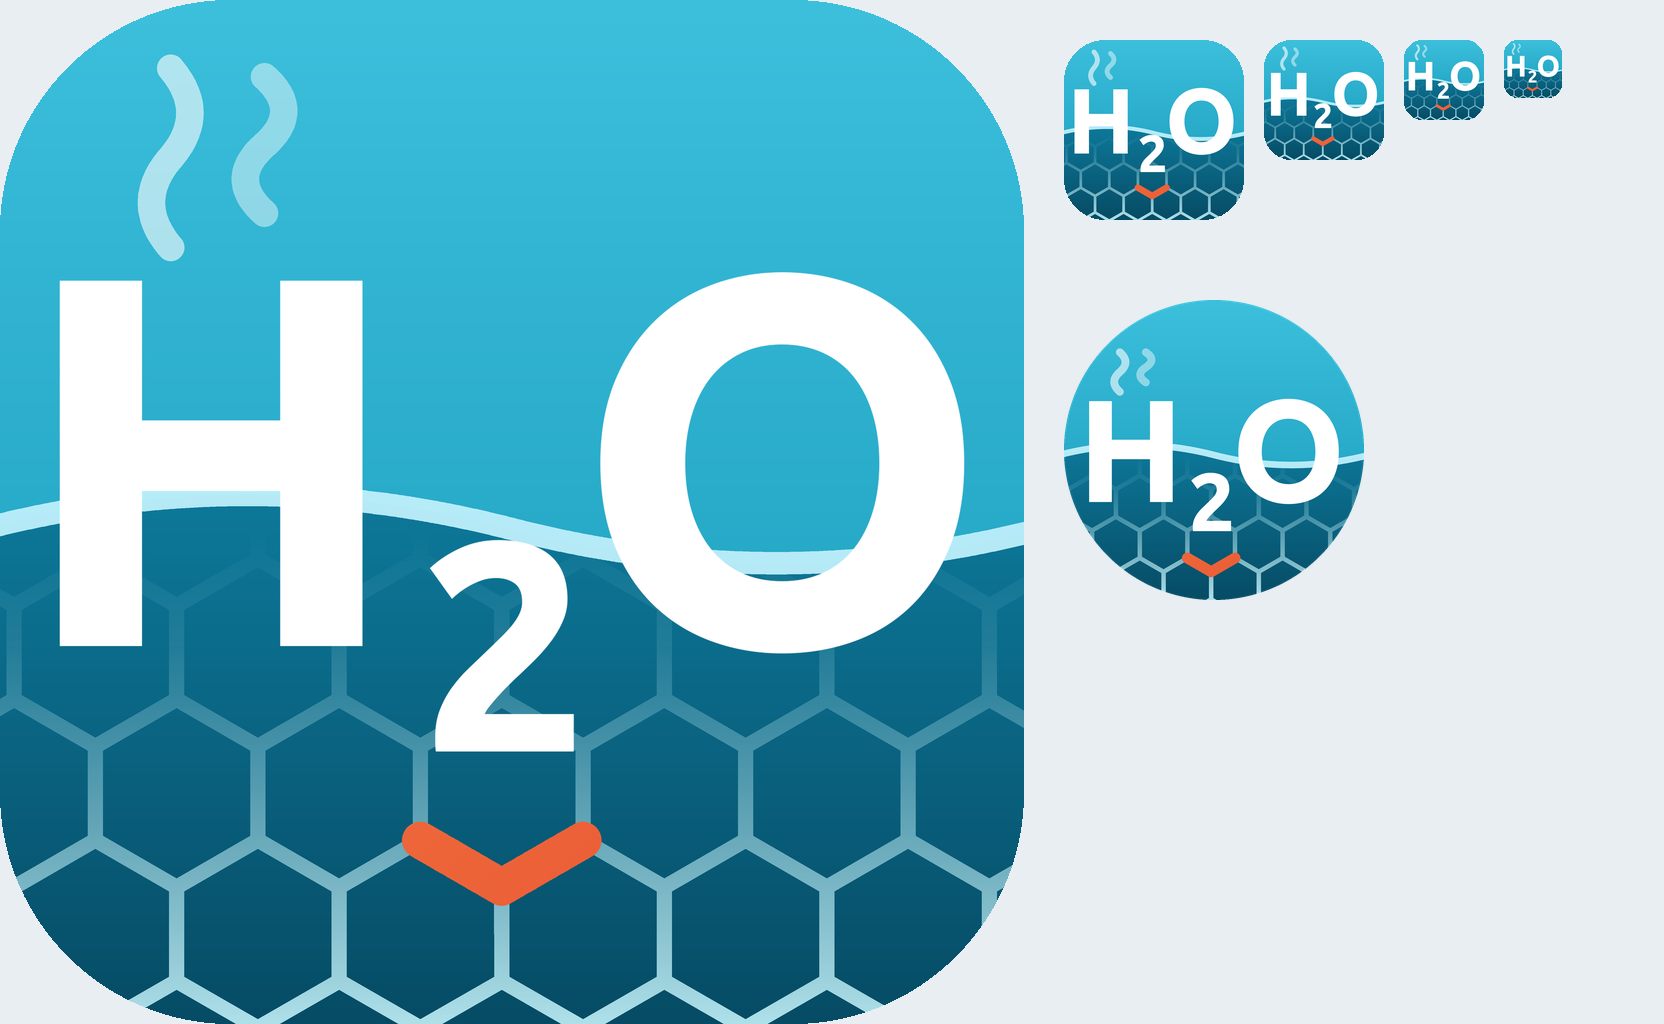
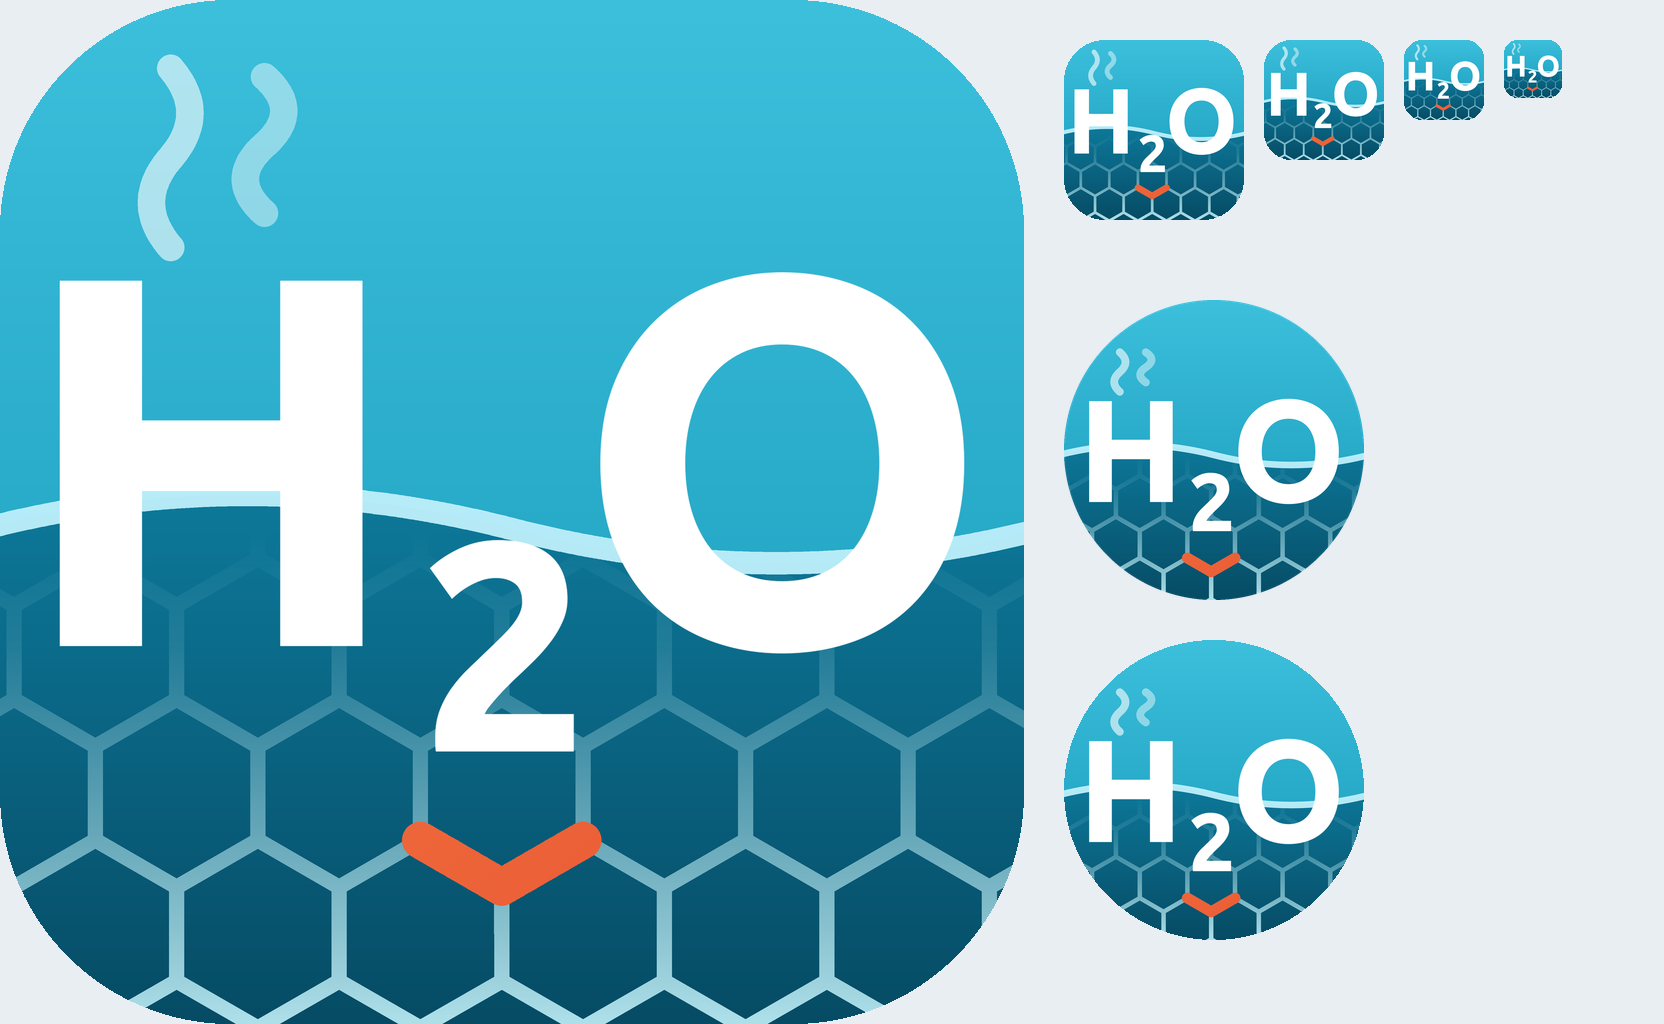
Android adaptief icoon: gebouwd uit het ronde ontwerp (zichtbaar middendeel), stoom boven de H, V onder de 2

Changed region(s): [[0.625, 0.625, 0.8438, 0.9375]]

diff --git a/Tools/Icoon/maak_icoon.py b/Tools/Icoon/maak_icoon.py
@@ -4,8 +4,10 @@ oranje V onder de 2 toegevoegd 11 nov 2026, zie Docs/Mockups/icoon_hex_keuze.png
 Gebruik:  python3 Tools/Icoon/maak_icoon.py
 Uitvoer:
   Assets/Icoon/icoon_1024.png          vierkant, zonder doorzichtigheid (iOS, App Store, standaard)
-  Assets/Icoon/android_achtergrond.png Android adaptief icoon: achtergrondlaag (1024)
-  Assets/Icoon/android_voorgrond.png   Android adaptief icoon: H2O, kleiner, binnen de veilige zone (1024)
+  Assets/Icoon/android_rond.png        Android rond icoon (oudere toestellen): eigen ontwerp, H2O zo groot mogelijk
+  Assets/Icoon/android_achtergrond.png Android adaptief icoon: achtergrondlaag; het ronde ontwerp in het zichtbare
+                                       middendeel (72 van 108 dp), de rand aangevuld (alleen te zien bij parallax)
+  Assets/Icoon/android_voorgrond.png   Android adaptief icoon: H2O van het ronde ontwerp, op dezelfde plek
   Docs/Icoon/icoon_store_512.png       Play Store (512, vierkant)
   Docs/Icoon/voorbeeld.png             voorbeeld met afgeronde hoeken en kleine maten
 
@@ -319,7 +321,27 @@ def rond_icoon():
     ImageDraw.Draw(m).ellipse([0, 0, MAAT - 1, MAAT - 1], fill=255)
     rond.putalpha(m)
     print(f"rond icoon: H2O {breedte:.0f} van 120 breed, midden op {midden_y}")
-    return rond
+    return rond, klein(bg), klein(letters)
+
+
+ZICHTBAAR = 72 / 108          # adaptief icoon: de launcher toont het middelste 72 van de 108 dp
+
+
+def adaptief(bg_rond, letters_rond):
+    """Android adaptief: het ronde ontwerp precies in het zichtbare middendeel. De rand eromheen (alleen te zien bij
+    parallax) wordt aangevuld met de randpixels van de achtergrond."""
+    z = round(MAAT * ZICHTBAAR); o = (MAAT - z) // 2
+    bgk = bg_rond.convert("RGB").resize((z, z), Image.LANCZOS)
+    achter = Image.new("RGB", (MAAT, MAAT))
+    achter.paste(bgk.crop((0, 0, z, 1)).resize((z, o)), (o, 0))                     # boven: lucht doortrekken
+    achter.paste(bgk.crop((0, z - 1, z, z)).resize((z, MAAT - o - z)), (o, o + z))  # onder
+    achter.paste(bgk, (o, o))
+    kolom_l = achter.crop((o, 0, o + 1, MAAT)).resize((o, MAAT))
+    kolom_r = achter.crop((o + z - 1, 0, o + z, MAAT)).resize((MAAT - o - z, MAAT))
+    achter.paste(kolom_l, (0, 0)); achter.paste(kolom_r, (o + z, 0))
+    voor = Image.new("RGBA", (MAAT, MAAT), (0, 0, 0, 0))
+    voor.alpha_composite(letters_rond.resize((z, z), Image.LANCZOS), (o, o))
+    return achter, voor
 
 
 def main():
@@ -332,15 +354,13 @@ def main():
     icoon.save(os.path.join(UIT_ASSETS, "icoon_1024.png"))
     icoon.resize((512, 512), Image.LANCZOS).save(os.path.join(UIT_DOCS, "icoon_store_512.png"))
 
-    # Android adaptief: 108 dp laag, veilige zone 66 dp in het midden → H2O op ~58 % van de breedte.
-    # De letters staan daar kleiner, dus de zeshoek met de oranje V komt op een eigen plek onder die 2.
-    letters_a = h2o(120 * 0.58)
-    bg_a = achtergrond(twee=twee_plek(letters_a), schaal=120 * 0.58 / (120 - 2 * MARGE))
-    klein(bg_a).convert("RGB").save(os.path.join(UIT_ASSETS, "android_achtergrond.png"))
-    klein(letters_a).save(os.path.join(UIT_ASSETS, "android_voorgrond.png"))
     # Android rond icoon (oudere toestellen): een eigen ontwerp, zo groot mogelijk binnen de cirkel
-    rond1024 = rond_icoon()
+    rond1024, bg_rond, letters_rond = rond_icoon()
     rond1024.save(os.path.join(UIT_ASSETS, "android_rond.png"))
+    # Android adaptief (Android 8+): hetzelfde ronde ontwerp in het zichtbare middendeel van de twee lagen
+    achter_a, voor_a = adaptief(bg_rond, letters_rond)
+    achter_a.save(os.path.join(UIT_ASSETS, "android_achtergrond.png"))
+    voor_a.save(os.path.join(UIT_ASSETS, "android_voorgrond.png"))
 
     # voorbeeld: afgerond groot + kleine maten, en de Android-cirkel
     vb = Image.new("RGBA", (1024 + 40 + 600, 1024), (233, 238, 242, 255))
@@ -350,6 +370,13 @@ def main():
         vb.alpha_composite(afgerond(icoon.convert("RGBA").resize((m, m), Image.LANCZOS)), (x, 40))
         x += m + 20
     vb.alpha_composite(rond1024.resize((300, 300), Image.LANCZOS), (1064, 300))
+    # adaptief icoon zoals een launcher het toont: het middelste 72 van 108 dp, als cirkel
+    zicht = round(MAAT * ZICHTBAAR); r0 = (MAAT - zicht) // 2
+    ad = Image.alpha_composite(achter_a.convert("RGBA"), voor_a).crop((r0, r0, r0 + zicht, r0 + zicht)).resize((300, 300), Image.LANCZOS)
+    m = Image.new("L", (300, 300), 0)
+    ImageDraw.Draw(m).ellipse([0, 0, 299, 299], fill=255)
+    ad.putalpha(m)
+    vb.alpha_composite(ad, (1064, 640))
     vb.save(os.path.join(UIT_DOCS, "voorbeeld.png"))
     print("klaar")
 
